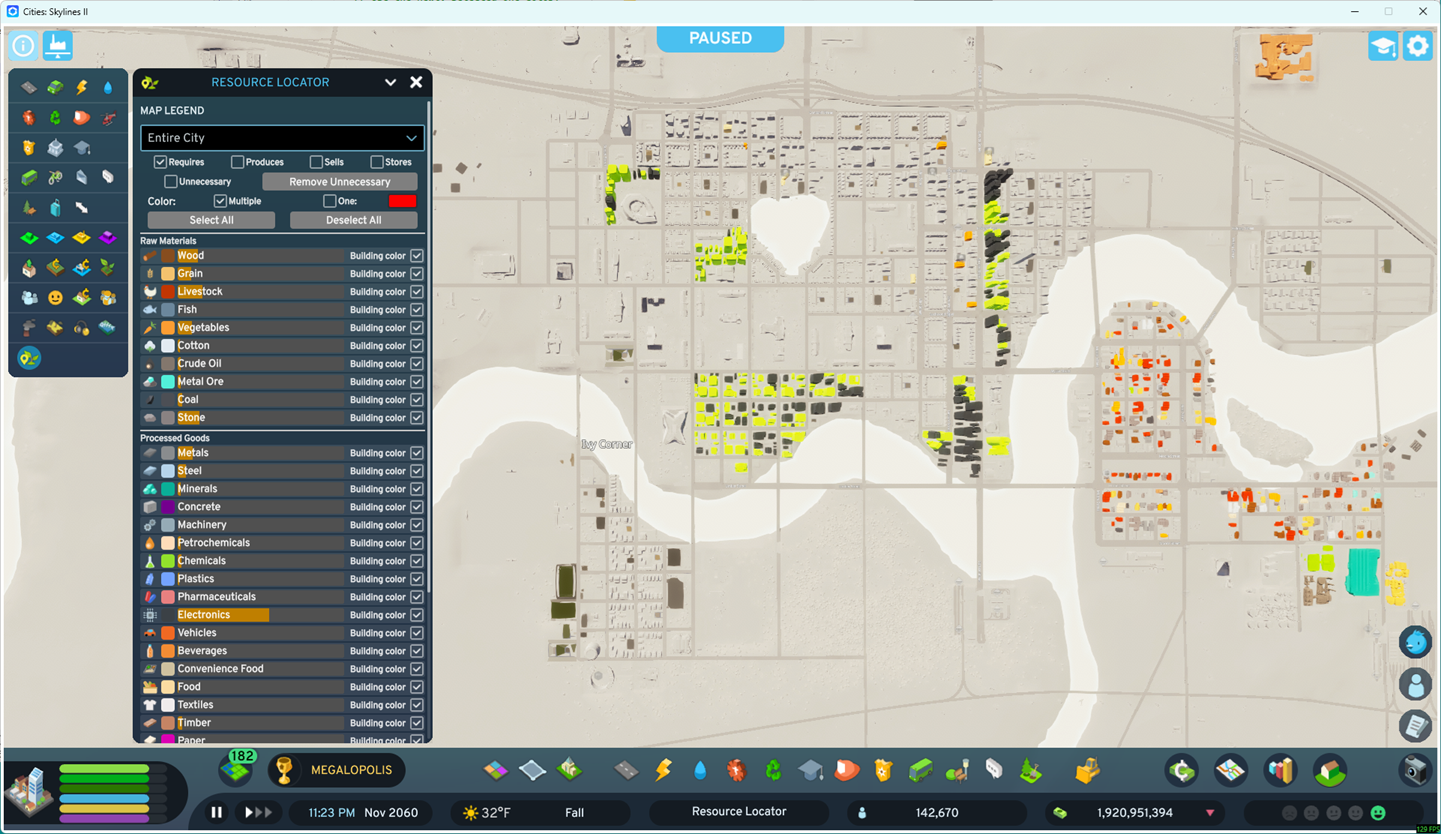
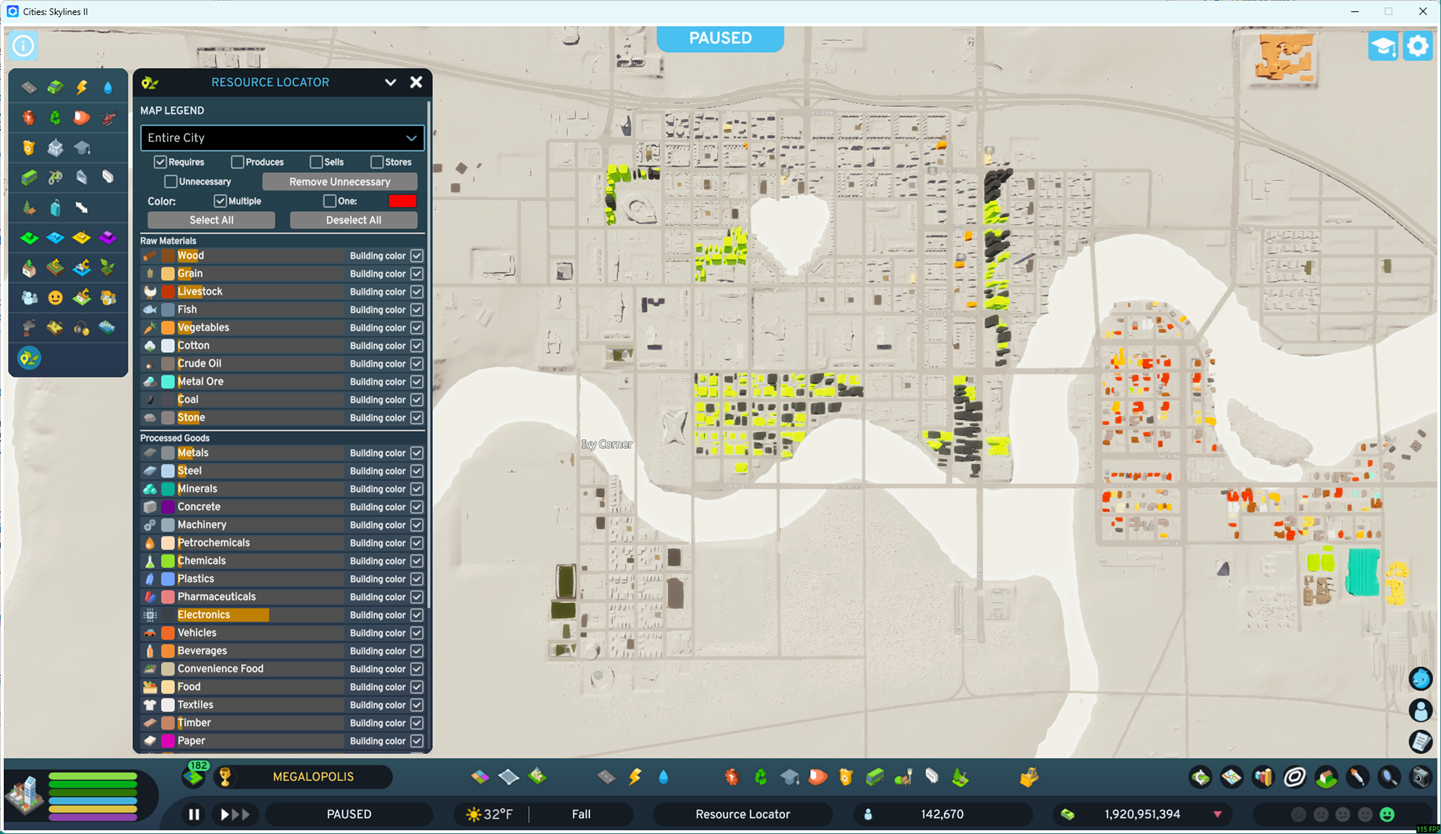
Version 2.2.2

Changed region(s): [[0.0, 0.7482, 0.9993, 0.9976], [0.0312, 0.0312, 0.0625, 0.0935], [0.1561, 0.0312, 0.1874, 0.0624]]

diff --git a/UI/types/bindings.d.ts b/UI/types/bindings.d.ts
@@ -442,6 +442,7 @@ declare module "cs2/bindings" {
   	"Economy Panel": Action;
   	"City Information Panel": Action;
   	"Statistic Panel": Action;
+  	"Toggle Global Contour Lines": Action;
   	"Transportation Overview Panel": Action;
   	"Notification Panel": Action;
   	"Chirper Panel": Action;
@@ -1610,12 +1611,21 @@ declare module "cs2/bindings" {
   	color: Color;
   	label: LocElement;
   }
+  export interface ZoneInfo {
+  	category: string;
+  	color: Color;
+  	edge: Color;
+  	fillAlpha: number;
+  	edgeAlpha: number;
+  }
   const infoviews$: ValueBinding<Infoview[]>;
   const activeInfoview$: ValueBinding<ActiveInfoview | null>;
+  const zoneInfos$: ValueBinding<ZoneInfo[]>;
   function closeInfoviewMenu(): void;
   function setActiveInfoview(entity: Entity): void;
   function clearActiveInfoview(): void;
   function setInfomodeActive(entity: Entity, active: boolean, priority: number): void;
+  function setZoneAlpha(category: string, fillAlpha: number, edgeAlpha: number): void;
   const electricityConsumption$: ValueBinding<number>;
   const electricityProduction$: ValueBinding<number>;
   const electricityTransmitted$: ValueBinding<number>;
@@ -2323,6 +2333,10 @@ declare module "cs2/bindings" {
   	[SectionType.Upgrades]: UpgradesSection;
   	[SectionType.UpgradeProperties]: UpgradePropertiesSection;
   	[SectionType.VisualCustomize]: VisualCustomizeSection;
+  }
+  export enum SelectedInfoPanelTab {
+  	Default = 0,
+  	Customize = 1
   }
   export type SelectedInfoSection = TypeFromMap<SelectedInfoSections>;
   export interface SelectedInfoSectionBase {
@@ -3048,6 +3062,7 @@ declare module "cs2/bindings" {
   const parallelModeSupported$: ValueBinding<boolean>;
   const parallelMode$: ValueBinding<boolean>;
   const parallelOffset$: ValueBinding<number>;
+  const contourMode$: ValueBinding<boolean>;
   const undergroundModeSupported$: ValueBinding<boolean>;
   const undergroundMode$: ValueBinding<boolean>;
   const elevationDownDisabled$: ValueBinding<boolean>;
@@ -3070,6 +3085,7 @@ declare module "cs2/bindings" {
   function setSelectedSnapMask(mask: number): void;
   function toggleParallelMode(): void;
   function setParallelOffset(offset: number): void;
+  function setContourMode(enabled: boolean): void;
   function setUndergroundMode(enabled: boolean): void;
   function setDistance(distance: number): void;
   const BULLDOZE_TOOL = "Bulldoze Tool";
@@ -3191,6 +3207,9 @@ declare module "cs2/bindings" {
   const vegetationAges$: ValueBinding<Theme$1[]>;
   const assetPacks$: ValueBinding<AssetPack[]>;
   const selectedAssetPacks$: ValueBinding<Entity[]>;
+  const vanillaSelected$: ValueBinding<boolean>;
+  const modsSelected$: ValueBinding<boolean>;
+  const hasModAssets$: ValueBinding<boolean>;
   const selectedAssetMenu$: ValueBinding<Entity>;
   const selectedAssetCategory$: ValueBinding<Entity>;
   const selectedAsset$: ValueBinding<Entity>;
@@ -3199,6 +3218,8 @@ declare module "cs2/bindings" {
   const setAgeMask: (ageMask: number) => void;
   const setSelectedThemes: (themes: Entity[]) => void;
   const setSelectedAssetPacks: (packs: Entity[]) => void;
+  const setVanillaSelected: (vanillaSelected: boolean) => void;
+  const setModsSelected: (modsSelected: boolean) => void;
   const selectAssetMenu: (assetMenu: Entity) => void;
   const selectAssetCategory: (assetCategory: Entity) => void;
   const selectAsset: (asset: Entity, updateTool: boolean) => void;
@@ -3509,10 +3530,10 @@ declare module "cs2/bindings" {
   	export { ChirperPanel, CinematicCameraPanel, CityInfoPanel, CityInfoPanelTab, EconomyPanel, EconomyPanelTab, GamePanel, GamePanelType, GamePanels, GameScreen, GlossaryPanel, GlossaryPanelTab, InfoviewMenu, JournalPanel, LayoutPosition, LifePathPanel, ModsMenuPanel, NotificationsPanel, PhotoModePanel, ProgressionPanel, ProgressionPanelTab, RadioPanel, StatisticsPanel, TabbedGamePanel, TransportationOverviewPanel, TransportationOverviewPanelTab, activeGamePanel$, activeGameScreen$, activePanelPosition$, blockingPanelActive$, canUseSaveSystem$, closeActiveGamePanel, closeGamePanel, setActiveGameScreen, setGlossaryCategory, showCityInfoPanel, showEconomyPanel, showFreeCameraScreen, showGamePanel, showGlossaryPanel, showLifePathDetail, showLifePathList, showMainScreen, showPauseScreen, showProgressionPanel, showTransportationOverviewPanel, toggleGamePanel, toggleInfoviewMenu, toggleLifePathPanel, toggleRadioPanel, toggleTransportationOverviewPanel };
   }
   export namespace infoview {
-  	export { CargoSummary, ChartData, IndicatorValue, PassengerSummary, TransportSummaries, activeInfoview$, ageData$, arrestedCriminals$, attractiveness$, availableFertility$, availableFish$, availableForest$, availableOil$, availableOre$, averageAirPollution$, averageCrimeProbability$, averageFees$, averageFireHazard$, averageGroundPollution$, averageHealth$, averageHotelPrice$, averageIncome$, averageLandValue$, averageNoisePollution$, averageRent$, averageResourceCost$, averageUpkeep$, averageWaterPollution$, averageWealth$, batteryCharge$, bikeParking$, bikeParkingAvailability$, birthRate$, cemeteryAvailability$, cemeteryCapacity$, cemeteryUse$, clearActiveInfoview, closeInfoviewMenu, collectedMail$, collegeAvailability$, collegeCapacity$, collegeEligible$, collegeStudents$, commercialLevels$, commercialProfitability$, crimePerMonth$, crimeProbability$, crimeProducers$, criminals$, deathRate$, deathcareAvailability$, deliveredMail$, educationData$, electricityAvailability$, electricityConsumption$, electricityExport$, electricityImport$, electricityProduction$, electricityTrade$, electricityTransmission$, electricityTransmitted$, elementaryAvailability$, elementaryCapacity$, elementaryEligible$, elementaryStudents$, employed$, employeesData$, escapedRate$, fertilityExtractionRate$, fertilityRenewalRate$, fishExtractionRate$, fishRenewalRate$, forestExtractionRate$, forestRenewalRate$, garbageProcessingRate$, garbageProductionRate$, healthcareAvailability$, highSchoolAvailability$, highSchoolCapacity$, highSchoolEligible$, highSchoolStudents$, homeless$, homelessness$, inJail$, inPrison$, industrialLevels$, industrialProfitability$, infoviews$, jailAvailability$, jailCapacity$, jobs$, landfillAvailability$, landfillCapacity$, mailProductionRate$, movedAway$, movedIn$, officeLevels$, officeProfitability$, oilExtractionRate$, oreExtractionRate$, parkedCars$, parkingAvailability$, parkingCapacity$, parkingIncome$, patientCapacity$, patientCount$, population$, postServiceAvailability$, prisonAvailability$, prisonCapacity$, prisoners$, processingAvailability$, processingRate$, residentialLevels$, setActiveInfoview, setInfomodeActive, sewageAvailability$, sewageCapacity$, sewageConsumption$, sewageExport$, shelterAvailability$, shelterCapacity$, shelteredCount$, sickCount$, storedGarbage$, topExportColors$, topExportData$, topExportNames$, topImportColors$, topImportData$, topImportNames$, tourismRate$, trafficFlow$, transportSummaries$, unemployment$, universityAvailability$, universityCapacity$, universityEligible$, universityStudents$, useInfoviewToggle, waterAvailability$, waterCapacity$, waterConsumption$, waterExport$, waterImport$, waterTrade$, weatherEffect$, workers$, workplacesData$, worksplaces$ };
+  	export { CargoSummary, ChartData, IndicatorValue, PassengerSummary, TransportSummaries, activeInfoview$, ageData$, arrestedCriminals$, attractiveness$, availableFertility$, availableFish$, availableForest$, availableOil$, availableOre$, averageAirPollution$, averageCrimeProbability$, averageFees$, averageFireHazard$, averageGroundPollution$, averageHealth$, averageHotelPrice$, averageIncome$, averageLandValue$, averageNoisePollution$, averageRent$, averageResourceCost$, averageUpkeep$, averageWaterPollution$, averageWealth$, batteryCharge$, bikeParking$, bikeParkingAvailability$, birthRate$, cemeteryAvailability$, cemeteryCapacity$, cemeteryUse$, clearActiveInfoview, closeInfoviewMenu, collectedMail$, collegeAvailability$, collegeCapacity$, collegeEligible$, collegeStudents$, commercialLevels$, commercialProfitability$, crimePerMonth$, crimeProbability$, crimeProducers$, criminals$, deathRate$, deathcareAvailability$, deliveredMail$, educationData$, electricityAvailability$, electricityConsumption$, electricityExport$, electricityImport$, electricityProduction$, electricityTrade$, electricityTransmission$, electricityTransmitted$, elementaryAvailability$, elementaryCapacity$, elementaryEligible$, elementaryStudents$, employed$, employeesData$, escapedRate$, fertilityExtractionRate$, fertilityRenewalRate$, fishExtractionRate$, fishRenewalRate$, forestExtractionRate$, forestRenewalRate$, garbageProcessingRate$, garbageProductionRate$, healthcareAvailability$, highSchoolAvailability$, highSchoolCapacity$, highSchoolEligible$, highSchoolStudents$, homeless$, homelessness$, inJail$, inPrison$, industrialLevels$, industrialProfitability$, infoviews$, jailAvailability$, jailCapacity$, jobs$, landfillAvailability$, landfillCapacity$, mailProductionRate$, movedAway$, movedIn$, officeLevels$, officeProfitability$, oilExtractionRate$, oreExtractionRate$, parkedCars$, parkingAvailability$, parkingCapacity$, parkingIncome$, patientCapacity$, patientCount$, population$, postServiceAvailability$, prisonAvailability$, prisonCapacity$, prisoners$, processingAvailability$, processingRate$, residentialLevels$, setActiveInfoview, setInfomodeActive, setZoneAlpha, sewageAvailability$, sewageCapacity$, sewageConsumption$, sewageExport$, shelterAvailability$, shelterCapacity$, shelteredCount$, sickCount$, storedGarbage$, topExportColors$, topExportData$, topExportNames$, topImportColors$, topImportData$, topImportNames$, tourismRate$, trafficFlow$, transportSummaries$, unemployment$, universityAvailability$, universityCapacity$, universityEligible$, universityStudents$, useInfoviewToggle, waterAvailability$, waterCapacity$, waterConsumption$, waterExport$, waterImport$, waterTrade$, weatherEffect$, workers$, workplacesData$, worksplaces$, zoneInfos$ };
   }
   export namespace infoviewTypes {
-  	export { ActiveInfoview, Infomode, InfomodeColorLegend, InfomodeGradientLegend, Infoview };
+  	export { ActiveInfoview, Infomode, InfomodeColorLegend, InfomodeGradientLegend, Infoview, ZoneInfo };
   }
   export namespace life {
   	export { FollowedCitizen, LifePathDetails, LifePathEvent, LifePathItem, LifePathItemType, LifePathItems, followCitizen, followedCitizens$, lifePathDetails$, lifePathItems$, maxFollowedCitizens$, unfollowCitizen };
@@ -3554,7 +3575,7 @@ declare module "cs2/bindings" {
   	export { RadioClip, RadioNetwork, RadioProgram, RadioStation, currentSegment$, emergencyFocusable$, emergencyMessage$, emergencyMode$, focusEmergency, muted$, networks$, paused$, playNext, playPrevious, radioEnabled$, segmentChanged$, selectNetwork, selectStation, selectedNetwork$, selectedStation$, setMuted, setPaused, setSkipAds, setVolume, skipAds$, stations$, toggleMuted, togglePaused, toggleSkipAds, volume$ };
   }
   export namespace selectedInfo {
-  	export { ActionsSection, AnimalSection, AttractivenessFactor, AttractivenessSection, AverageHappinessSection, BatterySection, CapacityInfo, CargoSection, CargoTransportVehicleSection, CitizenSection, ColorSection, ColorSet, ComfortSection, CompanySection, ContentPrerequisiteSection, DeathcareSection, DeathcareVehicleSection, DeliveryVehicleSection, DescriptionSection, DestroyedBuildingSection, DestroyedTreeSection, DeveloperSection, DeveloperSubsection, DeveloperSubsectionType, DeveloperSubsections, DispatchedVehiclesSection, District, DistrictsSection, DummyHumanSection, EducationSection, EfficiencyFactor, EfficiencySection, ElectricitySection, EmployeesSection, ExtractorVehicleSection, FireSection, FireVehicleSection, GarbageSection, GarbageVehicleSection, GenericInfo, HealthcareSection, HealthcareVehicleSection, HouseholdSidebarItem, HouseholdSidebarSection, HouseholdSidebarVariant, HouseholdWealthData, InfoList, Item, LINE_STOP, LINE_VEHICLE, LevelSection, Line, LineItem, LineSection, LineSegment, LineStop, LineType, LineVehicle, LineVisualizerSection, LinesSection, LoadSection, LocalServiceBuilding, LocalServicesSection, Location$1 as Location, MailSection, MailSectionType, MaintenanceVehicleSection, NotificationsSection, ParkSection, ParkingSection, PassengersSection, PdxModsSection, PoliceSection, PoliceVehicleSection, PoliciesSection, Pollution$1 as Pollution, PollutionSection, PostVehicleSection, PrisonSection, PrivateVehicleSection, ProfitabilitySection, PublicTransportVehicleSection, ResidentsSection, Resource$1 as Resource, ResourceSection, RoadSection, ScheduleSection, SectionType, SelectVehiclesSection, SelectedInfoSection, SelectedInfoSectionBase, SelectedInfoSectionProps, SelectedInfoSections, SewageSection, ShelterSection, StatusSection, StorageSection, TicketPriceSection, TitleSection, TradedResourcesSection, TransformerSection, Upgrade, UpgradeInfo, UpgradePropertiesSection, UpgradeType, UpgradesSection, UpkeepItem, UpkeepSection, Vehicle, VehicleCountSection, VehiclePrefab, VehicleSectionProps, VehicleWithLineSectionProps, VehiclesSection, VisualCustomizeSection, WaterSection, activeSelection$, bottomSections$, clearSelection, developerSection$, householdSidebarSection$, lineVisualizerSection$, middleSections$, selectEntity, selectedEntity$, selectedInfoPosition$, selectedRoute$, selectedTrailerController$, selectedUITag$, setSelectedRoute, titleSection$, tooltipTags$, topSections$, useGeneratedTooltipParagraphs, useTooltipParagraph, useTooltipParagraphs };
+  	export { ActionsSection, AnimalSection, AttractivenessFactor, AttractivenessSection, AverageHappinessSection, BatterySection, CapacityInfo, CargoSection, CargoTransportVehicleSection, CitizenSection, ColorSection, ColorSet, ComfortSection, CompanySection, ContentPrerequisiteSection, DeathcareSection, DeathcareVehicleSection, DeliveryVehicleSection, DescriptionSection, DestroyedBuildingSection, DestroyedTreeSection, DeveloperSection, DeveloperSubsection, DeveloperSubsectionType, DeveloperSubsections, DispatchedVehiclesSection, District, DistrictsSection, DummyHumanSection, EducationSection, EfficiencyFactor, EfficiencySection, ElectricitySection, EmployeesSection, ExtractorVehicleSection, FireSection, FireVehicleSection, GarbageSection, GarbageVehicleSection, GenericInfo, HealthcareSection, HealthcareVehicleSection, HouseholdSidebarItem, HouseholdSidebarSection, HouseholdSidebarVariant, HouseholdWealthData, InfoList, Item, LINE_STOP, LINE_VEHICLE, LevelSection, Line, LineItem, LineSection, LineSegment, LineStop, LineType, LineVehicle, LineVisualizerSection, LinesSection, LoadSection, LocalServiceBuilding, LocalServicesSection, Location$1 as Location, MailSection, MailSectionType, MaintenanceVehicleSection, NotificationsSection, ParkSection, ParkingSection, PassengersSection, PdxModsSection, PoliceSection, PoliceVehicleSection, PoliciesSection, Pollution$1 as Pollution, PollutionSection, PostVehicleSection, PrisonSection, PrivateVehicleSection, ProfitabilitySection, PublicTransportVehicleSection, ResidentsSection, Resource$1 as Resource, ResourceSection, RoadSection, ScheduleSection, SectionType, SelectVehiclesSection, SelectedInfoPanelTab, SelectedInfoSection, SelectedInfoSectionBase, SelectedInfoSectionProps, SelectedInfoSections, SewageSection, ShelterSection, StatusSection, StorageSection, TicketPriceSection, TitleSection, TradedResourcesSection, TransformerSection, Upgrade, UpgradeInfo, UpgradePropertiesSection, UpgradeType, UpgradesSection, UpkeepItem, UpkeepSection, Vehicle, VehicleCountSection, VehiclePrefab, VehicleSectionProps, VehicleWithLineSectionProps, VehiclesSection, VisualCustomizeSection, WaterSection, activeSelection$, bottomSections$, clearSelection, developerSection$, householdSidebarSection$, lineVisualizerSection$, middleSections$, selectEntity, selectedEntity$, selectedInfoPosition$, selectedRoute$, selectedTrailerController$, selectedUITag$, setSelectedRoute, titleSection$, tooltipTags$, topSections$, useGeneratedTooltipParagraphs, useTooltipParagraph, useTooltipParagraphs };
   }
   export namespace statistics {
   	export { StatCategory, StatItem, activeCategory$, activeGroup$, addStat, addStatChildren, clearStats, removeStat, sampleCount$, sampleRange$, selectedStatistics$, setSampleRange, stacked$, statGroupsMap$, statLabels$, statUnlockingRequirements$, statisticsCategories$, statsData$, updatesPerDay$ };
@@ -3566,10 +3587,10 @@ declare module "cs2/bindings" {
   	export { LightingState, SimulationDate, SimulationDateTime, SimulationTime, TimeSettings, calculateDateFromDays, calculateDateFromTicks, calculateDateTimeFromTicks, calculateMinutesSinceMidnightFromTicks, calculateTimeFromMinutesSinceMidnight, dateEquals, day$, lightingState$, setSimulationPaused, setSimulationSpeed, simulationPaused$, simulationPausedBarrier$, simulationSpeed$, ticks$, timeSettings$ };
   }
   export namespace tool {
-  	export { AREA_TOOL, BULLDOZE_TOOL, Brush, DEFAULT_TOOL, NET_TOOL, OBJECT_TOOL, ROUTE_TOOL, SELECTION_TOOL, TERRAIN_TOOL, Tool, ToolMode, UPGRADE_TOOL, WATER_TOOL, ZONE_TOOL, activeTool$, allSnapMask$, allowBrush$, availableSnapMask$, brushAngle$, brushHeight$, brushHeightMax$, brushHeightMin$, brushSize$, brushSizeMax$, brushSizeMin$, brushStrength$, brushes$, bulldozeConfirmationRequested$, changeElevation, color$, colorSupported$, confirmBulldoze, distance$, distanceScale$, elevation$, elevationDown, elevationDownDisabled$, elevationRange$, elevationScroll, elevationStep$, elevationUp, elevationUpDisabled$, isEditor$, parallelMode$, parallelModeSupported$, parallelOffset$, replacingTrees$, selectBrush, selectTool, selectToolMode, selectedBrush$, selectedSnapMask$, setBrushAngle, setBrushHeight, setBrushSize, setBrushStrength, setColor, setDistance, setElevationStep, setParallelOffset, setSelectedSnapMask, setShowWaterSourceNames, setSimulateBackdropWater, setUndergroundMode, setWaterSimSpeed, showWaterSourceNames$, simulateBackdropWater$, snapOptionNames$, toggleParallelMode, undergroundMode$, undergroundModeSupported$, waterSimSpeed$ };
+  	export { AREA_TOOL, BULLDOZE_TOOL, Brush, DEFAULT_TOOL, NET_TOOL, OBJECT_TOOL, ROUTE_TOOL, SELECTION_TOOL, TERRAIN_TOOL, Tool, ToolMode, UPGRADE_TOOL, WATER_TOOL, ZONE_TOOL, activeTool$, allSnapMask$, allowBrush$, availableSnapMask$, brushAngle$, brushHeight$, brushHeightMax$, brushHeightMin$, brushSize$, brushSizeMax$, brushSizeMin$, brushStrength$, brushes$, bulldozeConfirmationRequested$, changeElevation, color$, colorSupported$, confirmBulldoze, contourMode$, distance$, distanceScale$, elevation$, elevationDown, elevationDownDisabled$, elevationRange$, elevationScroll, elevationStep$, elevationUp, elevationUpDisabled$, isEditor$, parallelMode$, parallelModeSupported$, parallelOffset$, replacingTrees$, selectBrush, selectTool, selectToolMode, selectedBrush$, selectedSnapMask$, setBrushAngle, setBrushHeight, setBrushSize, setBrushStrength, setColor, setContourMode, setDistance, setElevationStep, setParallelOffset, setSelectedSnapMask, setShowWaterSourceNames, setSimulateBackdropWater, setUndergroundMode, setWaterSimSpeed, showWaterSourceNames$, simulateBackdropWater$, snapOptionNames$, toggleParallelMode, undergroundMode$, undergroundModeSupported$, waterSimSpeed$ };
   }
   export namespace toolbar$1 {
-  	export { AgeMask, Asset$1 as Asset, AssetCategory, AssetPack, CompareAssetsByPriority, Theme$1 as Theme, ToolbarGroup, ToolbarItem, ToolbarItemType, ageMask$, assetCategories$, assetPacks$, assets$, clearAssetSelection, decorationMode$, selectAsset, selectAssetCategory, selectAssetMenu, selectedAsset$, selectedAssetCategory$, selectedAssetMenu$, selectedAssetPacks$, selectedThemes$, setAgeMask, setDecorationMode, setSelectedAssetPacks, setSelectedThemes, themes$$1 as themes$, toggleToolOptions, toolbarGroups$, vegetationAges$ };
+  	export { AgeMask, Asset$1 as Asset, AssetCategory, AssetPack, CompareAssetsByPriority, Theme$1 as Theme, ToolbarGroup, ToolbarItem, ToolbarItemType, ageMask$, assetCategories$, assetPacks$, assets$, clearAssetSelection, decorationMode$, hasModAssets$, modsSelected$, selectAsset, selectAssetCategory, selectAssetMenu, selectedAsset$, selectedAssetCategory$, selectedAssetMenu$, selectedAssetPacks$, selectedThemes$, setAgeMask, setDecorationMode, setModsSelected, setSelectedAssetPacks, setSelectedThemes, setVanillaSelected, themes$$1 as themes$, toggleToolOptions, toolbarGroups$, vanillaSelected$, vegetationAges$ };
   }
   export namespace toolbarBottom {
   	export { cityName$, money$, moneyDelta$, moneyTrendThresholds$, population$$1 as population$, populationDelta$, populationTrendThresholds$, setCityName, unlimitedMoney$ };

diff --git a/UI/types/input.d.ts b/UI/types/input.d.ts
@@ -481,6 +481,7 @@ declare module "cs2/input" {
   	"Economy Panel": Action;
   	"City Information Panel": Action;
   	"Statistic Panel": Action;
+  	"Toggle Global Contour Lines": Action;
   	"Transportation Overview Panel": Action;
   	"Notification Panel": Action;
   	"Chirper Panel": Action;

diff --git a/UI/types/ui.d.ts b/UI/types/ui.d.ts
@@ -323,6 +323,7 @@ declare module "cs2/ui" {
   	"Economy Panel": Action;
   	"City Information Panel": Action;
   	"Statistic Panel": Action;
+  	"Toggle Global Contour Lines": Action;
   	"Transportation Overview Panel": Action;
   	"Notification Panel": Action;
   	"Chirper Panel": Action;

diff --git a/Systems/BuildingColorSystem.cs b/Systems/BuildingColorSystem.cs
@@ -971,47 +971,6 @@ namespace ResourceLocator
 
 
         /// <summary>
-        /// Job to set the color of each attachment building to the color of the building to which it is attached.
-        /// Attachment buildings are the lots attached to specialized industry hubs.
-        /// </summary>
-        [BurstCompile]
-        private struct UpdateColorsJobAttachmentBuilding : IJobChunk
-        {
-            // Color component lookup to update.
-            [NativeDisableParallelForRestriction] public ComponentLookup<Color> ComponentLookupColor;
-
-            // Component type handles.
-            [ReadOnly] public ComponentTypeHandle<Attachment> ComponentTypeHandleAttachment;
-
-            // Entity type handle.
-            [ReadOnly] public EntityTypeHandle EntityTypeHandle;
-
-            /// <summary>
-            /// Job execution.
-            /// </summary>
-            public void Execute(in ArchetypeChunk chunk, int unfilteredChunkIndex, bool useEnabledMask, in v128 chunkEnabledMask)
-            {
-                // Do each attachment entity.
-                NativeArray<Attachment> attachments = chunk.GetNativeArray(ref ComponentTypeHandleAttachment);
-                NativeArray<Entity    > entities    = chunk.GetNativeArray(EntityTypeHandle);
-                for (int i = 0; i < entities.Length; i++)
-                {
-                    // Get the color of the attached entity.
-                    if (ComponentLookupColor.TryGetComponent(attachments[i].m_Attached, out Color attachedColor))
-                    {
-                        // Set color of this attachment entity to the color of the attached entity.
-                        Entity entity = entities[i];
-                        Color color = ComponentLookupColor[entity];
-                        color.m_Index = attachedColor.m_Index;
-                        color.m_Value = attachedColor.m_Value;
-                        ComponentLookupColor[entity] = color;
-                    }
-                }
-            }
-        }
-
-
-        /// <summary>
         /// Job to set the color of each middle building to the color of its owner.
         /// Middle buildings include sub buildings (i.e. building upgrades placed around the perimeter of the main building).
         /// Logic is adapted from Game.Rendering.ObjectColorSystem.UpdateMiddleObjectColorsJob except:
@@ -1286,7 +1245,6 @@ namespace ResourceLocator
         private EntityQuery _queryDefault;
         private EntityQuery _queryCargoVehicle;
         private EntityQuery _queryMainBuilding;
-        private EntityQuery _queryAttachmentBuilding;
         private EntityQuery _queryMiddleBuilding;
         private EntityQuery _queryTempObject;
         private EntityQuery _querySubObject;
@@ -1432,31 +1390,10 @@ namespace ResourceLocator
                         ComponentType.ReadOnly<Destroyed>(),            // Exclude destroyed buildings.
                         ComponentType.ReadOnly<OutsideConnection>(),    // Exclude outside connections.
 				        ComponentType.ReadOnly<Owner>(),                // Exclude subbuildings (see middle buildings query below).
-                        ComponentType.ReadOnly<Attachment>(),           // Exclude attachments  (see attachments      query below).
+                        ComponentType.ReadOnly<Attachment>(),           // Exclude attachments  (i.e. the lot on a specialized industry).
 				        ComponentType.ReadOnly<Temp>(),                 // Exclude temp         (see temp objects     query below).
 			        }
 		        }
-            );
-
-            // Query to get attachment buildings.
-            // Attachments are the lots attached to specialized industry.
-            _queryAttachmentBuilding = GetEntityQuery
-            (
-                new EntityQueryDesc
-                {
-                    All = new ComponentType[]
-                    {
-                        ComponentType.ReadOnly <Building>(),
-                        ComponentType.ReadOnly <Attachment>(),
-                        ComponentType.ReadWrite<Color>(),
-                    },
-                    None = new ComponentType[]
-                    {
-                        ComponentType.ReadOnly<Owner>(),        // Exclude middle buildings (see middle buildings query below).
-                        ComponentType.ReadOnly<Hidden>(),
-                        ComponentType.ReadOnly<Deleted>(),
-                    }
-                }
             );
 
             // Query to get middle buildings.
@@ -1474,7 +1411,7 @@ namespace ResourceLocator
                     },
                     None = new ComponentType[]
                     {
-                        ComponentType.ReadOnly<Attachment>(),   // Exclude attachments (see attachment buildings query above).
+                        ComponentType.ReadOnly<Attachment>(),   // Exclude attachments (i.e. the lot on a specialized industry).
                         ComponentType.ReadOnly<Hidden>(),
                         ComponentType.ReadOnly<Deleted>(),
                     }
@@ -1765,15 +1702,6 @@ namespace ResourceLocator
             };
 
 
-            // Create a job to update attachment building colors.
-            UpdateColorsJobAttachmentBuilding updateColorsJobAttachmentBuilding = new()
-            {
-                ComponentLookupColor            = SystemAPI.GetComponentLookup<Color>(false),
-                ComponentTypeHandleAttachment   = SystemAPI.GetComponentTypeHandle<Attachment>(true),
-                EntityTypeHandle                = SystemAPI.GetEntityTypeHandle(),
-            };
-
-
             // Create a job to update middle building colors.
             UpdateColorsJobMiddleBuilding updateColorsJobMiddleBuilding = new()
             {
@@ -1825,12 +1753,10 @@ namespace ResourceLocator
             // The cargo vehicle and main building jobs can run at the same time as each other but only after the default job.
             // Schedule each job to execute in parallel (i.e. job uses multiple threads, if available).
             // Parallel threads execute much faster than a single thread.
-            // Do attachment buildings before middle buildings because some middle buildings have an attachment building as owner.
             JobHandle jobHandleDefault            = JobChunkExtensions.ScheduleParallel(updateColorsJobDefault,            _queryDefault,            base.Dependency);
             JobHandle jobHandleCargoVehicle       = JobChunkExtensions.ScheduleParallel(updateColorsJobCargoVehicle,       _queryCargoVehicle,       jobHandleDefault);
             JobHandle jobHandleMainBuilding       = JobChunkExtensions.ScheduleParallel(updateColorsJobMainBuilding,       _queryMainBuilding,       jobHandleDefault);
-            JobHandle jobHandleAttachmentBuilding = JobChunkExtensions.ScheduleParallel(updateColorsJobAttachmentBuilding, _queryAttachmentBuilding, jobHandleMainBuilding);
-            JobHandle jobHandleMiddleBuilding     = JobChunkExtensions.ScheduleParallel(updateColorsJobMiddleBuilding,     _queryMiddleBuilding,     jobHandleAttachmentBuilding);
+            JobHandle jobHandleMiddleBuilding     = JobChunkExtensions.ScheduleParallel(updateColorsJobMiddleBuilding,     _queryMiddleBuilding,     jobHandleMainBuilding);
             JobHandle jobHandleTempObject         = JobChunkExtensions.ScheduleParallel(updateColorsJobTempObject,         _queryTempObject,         jobHandleMiddleBuilding);
             JobHandle jobHandleSubObject          = JobChunkExtensions.ScheduleParallel(updateColorsJobSubObject,          _querySubObject,          jobHandleTempObject);
 

diff --git a/Systems/ResourceLocatorUISystem.cs b/Systems/ResourceLocatorUISystem.cs
@@ -356,6 +356,7 @@ namespace ResourceLocator
         {
             // Save the new display option.
             Mod.ModSettings.DisplayOption = (DisplayOption)newDisplayOption;
+            Mod.ModSettings.ApplyAndSave();
 
             // Immediately send the display option back to the UI.
             _bindingDisplayOption.Update(newDisplayOption);
@@ -418,6 +419,7 @@ namespace ResourceLocator
         {
             // Save the new color option.
             Mod.ModSettings.ColorOption = (ColorOption)newColorOption;
+            Mod.ModSettings.ApplyAndSave();
 
             // Immediately send the color option back to the UI.
             _bindingColorOption.Update(newColorOption);
@@ -436,6 +438,7 @@ namespace ResourceLocator
             Mod.ModSettings.OneColorR = newOneColor.r;
             Mod.ModSettings.OneColorG = newOneColor.g;
             Mod.ModSettings.OneColorB = newOneColor.b;
+            Mod.ModSettings.ApplyAndSave();
 
             // Immediately send the one color back to the UI.
             _bindingOneColor.Update(newOneColor);

diff --git a/ModSettings/ModSettings.cs b/ModSettings/ModSettings.cs
@@ -62,7 +62,7 @@ namespace ResourceLocator
 
         // Display mod version in settings.
         [SettingsUISection(GroupAbout)]
-        public string ModVersion { get { return ModAssemblyInfo.Version; } }
+        public string ModVersion => ModAssemblyInfo.Version;
 
 
         // Hidden setting for display option.
@@ -75,6 +75,6 @@ namespace ResourceLocator
         [SettingsUIHidden] public float OneColorR { get; set; }
         [SettingsUIHidden] public float OneColorG { get; set; }
         [SettingsUIHidden] public float OneColorB { get; set; }
-        public Color OneColor => new Color(OneColorR, OneColorG, OneColorB, 1f);
+        public Color OneColor => new(OneColorR, OneColorG, OneColorB, 1f);
     }
 }

diff --git a/Data/RLInfoviewUtils.cs b/Data/RLInfoviewUtils.cs
@@ -121,6 +121,9 @@ namespace ResourceLocator
         /// </summary>
         public static void SetInfomodeColors()
         {
+            // Get the one color in case it is needed.
+            Color oneColor = Mod.ModSettings.OneColor;
+
             // Do each infomode in the infoview prefab.
             foreach (InfomodeInfo infomodeInfo in _infoviewPrefab.m_Infomodes)
             {
@@ -180,7 +183,7 @@ namespace ResourceLocator
                 else
                 {
                     // Use one color from settings for all infomodes.
-                    color = Mod.ModSettings.OneColor;
+                    color = oneColor;
                 }
 
                 // Set the infomode color.

diff --git a/ModAssemblyInfo/ModAssemblyInfo.cs b/ModAssemblyInfo/ModAssemblyInfo.cs
@@ -10,7 +10,7 @@ namespace ResourceLocator
     public class ModAssemblyInfo
     {
         public const string Name        = "ResourceLocator";
-        public const string Version     = "2.2.1";
+        public const string Version     = "2.2.2";
         public const string Title       = "Resource Locator";
         public const string Description = "New info view to locate buildings where resources are required, produced, sold, and stored.";
     }

diff --git a/ChangeLog.md b/ChangeLog.md
@@ -1,1 +1,1 @@
-- Update for game version 1.5.7.
+- Do not show color on the lot of a specialized industry.
